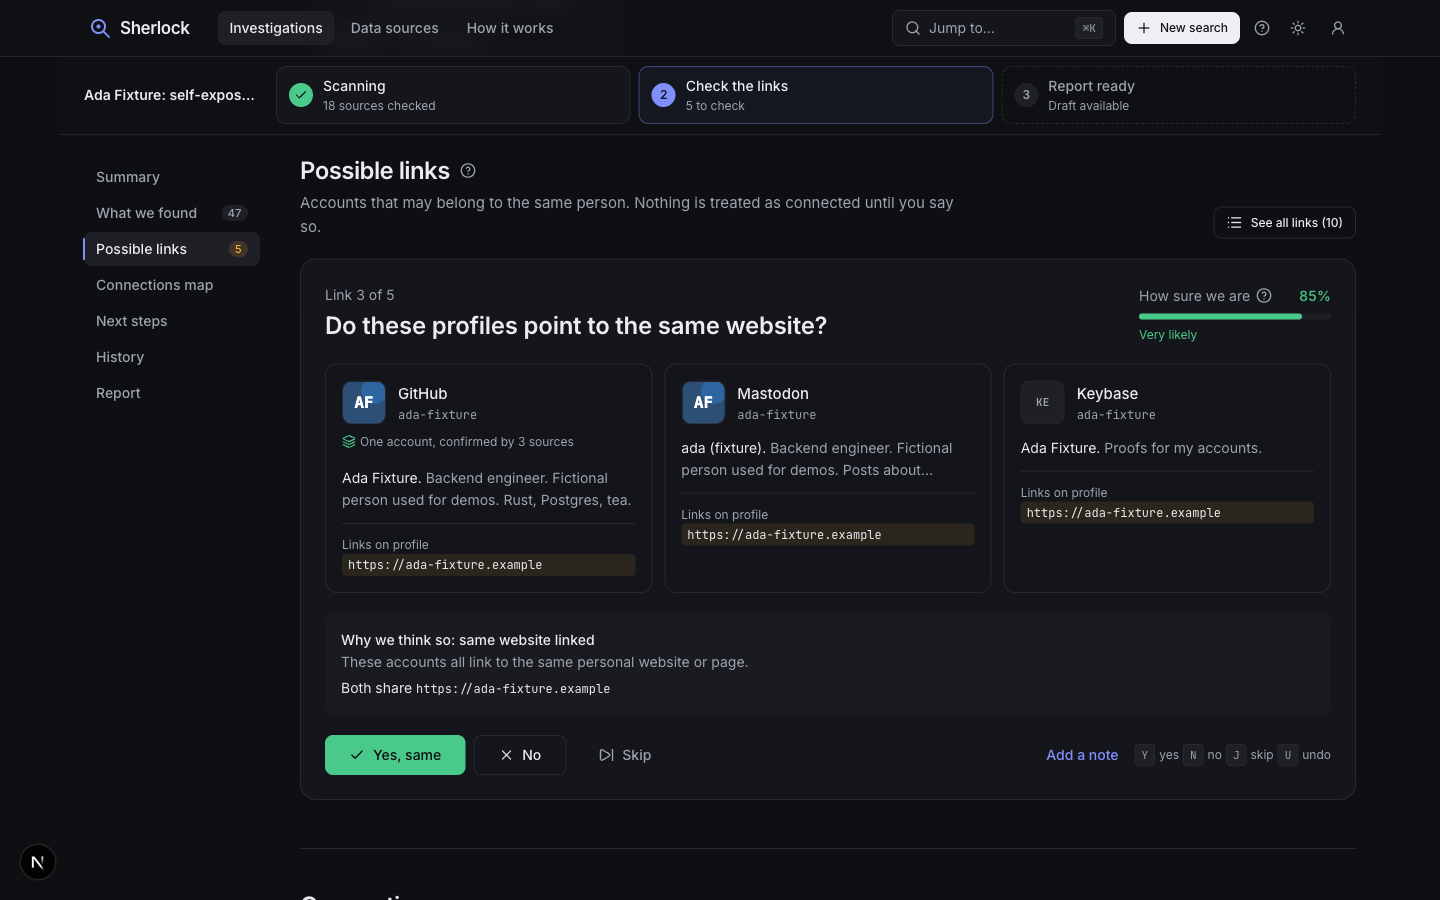
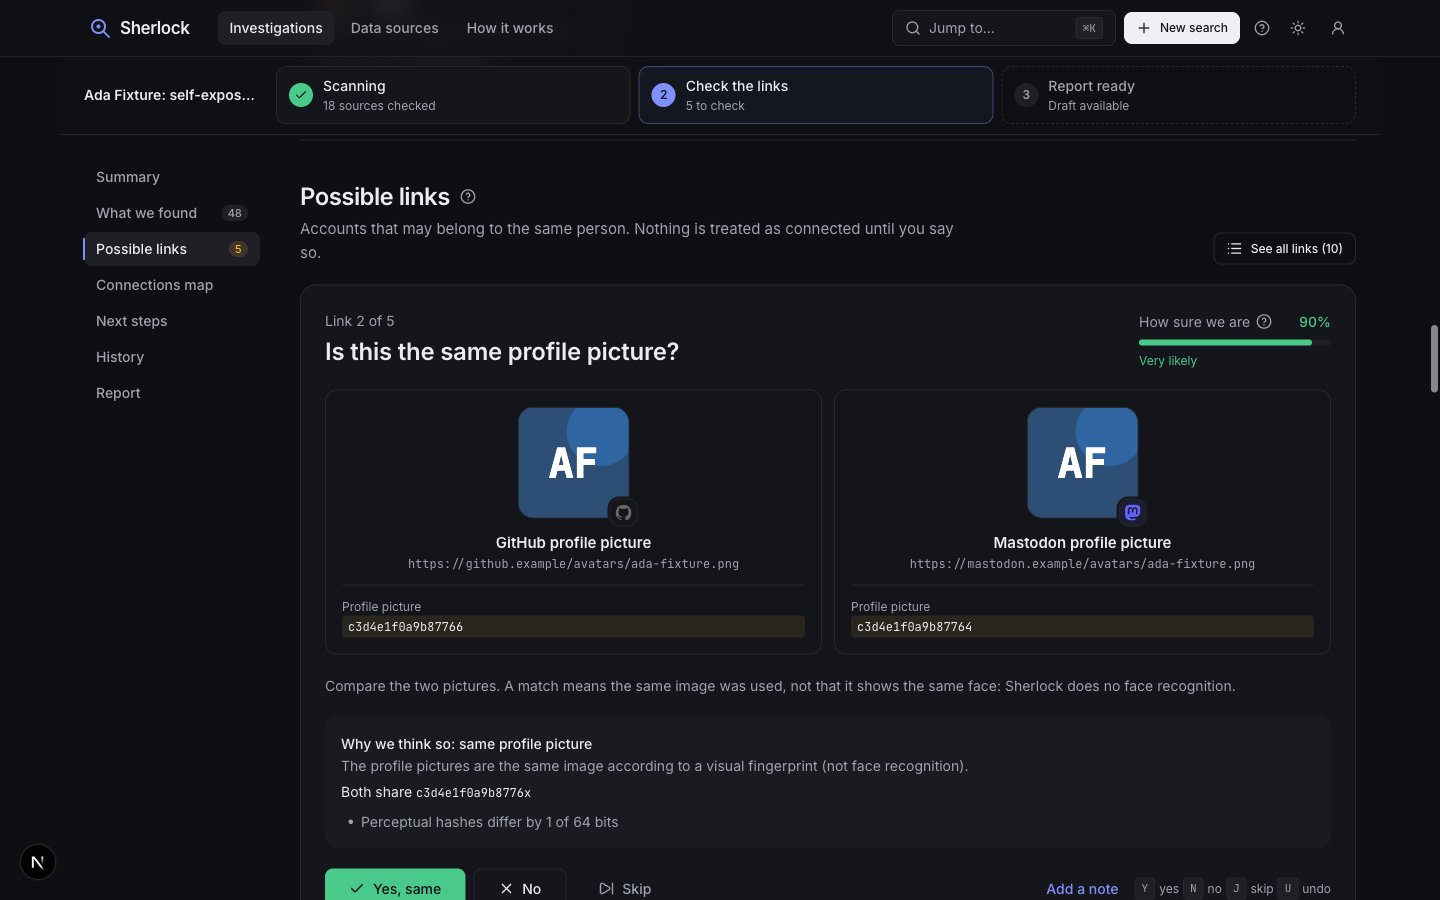
Screenshots and README for profile cards and picture matches

diff --git a/apps/web/README.md b/apps/web/README.md
@@ -61,8 +61,8 @@ reserved `.example` domains, RFC 5737 addresses. Fixture mode also scores exposu
 | ![Map](docs/screenshots/graph.png) | ![Links](docs/screenshots/review.png) |
 | **People (name search)** | **Light theme, first visit** |
 | ![People](docs/screenshots/people.png) | ![Light](docs/screenshots/home-light.png) |
-| **Mobile (375 px)** | |
-| ![Mobile](docs/screenshots/mobile.png) | |
+| **What we found (profiles)** | **Mobile (375 px)** |
+| ![Results](docs/screenshots/results.png) | ![Mobile](docs/screenshots/mobile.png) |
 
 ## Gateway calls
 
@@ -98,6 +98,9 @@ lib/graph             graph model + deterministic radial layout
 lib/detect-target.ts  guesses the target type from free text (start screen chip)
 lib/case-progress.ts  scan progress, the three rail steps, status lines; also case-summary,
                       finding-groups, remediation, sections (old ?tab= links map onto sections)
+lib/platforms.ts      one platform identity (key, label, category) from GET /platforms, with a bundled
+                      snapshot; lib/platform-glyphs.ts (simple-icons, lazy chunk), lib/profile.ts
+                      (profile level, faces, provenance labels)
 lib/finding-extras.ts parsers for module-specific finding shapes (DNS, services, wallet, image,
                       activity); unknown keys fall back to a generic key/value view
 ```
